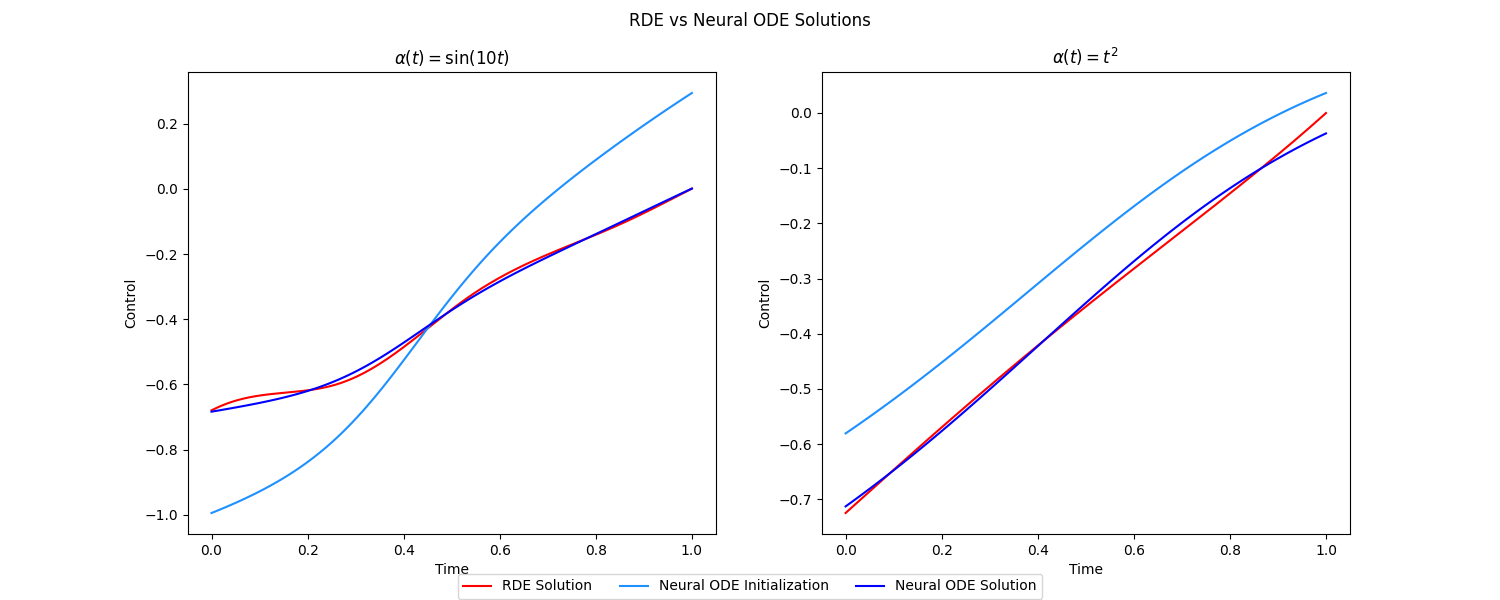
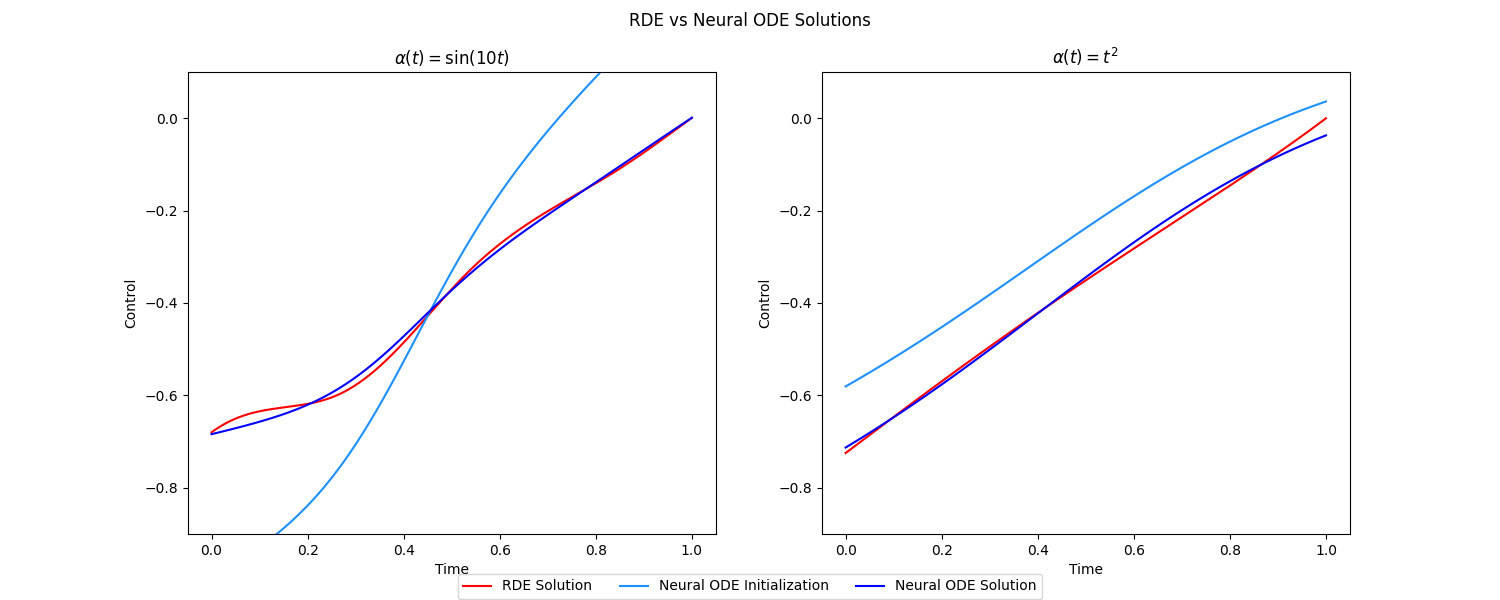
Refine figures

diff --git a/main.py b/main.py
@@ -17,27 +17,29 @@ t_rde_sin, u_rde_sin = rde_solver(L, alpha1)
 t_rde_sq, u_rde_sq = rde_solver(L, alpha2)
 
 # Solve the Neural ODE
-# t_neural_sin, u_neural_sin, u_neural_sin_init = neural_ode_solver(L, alpha1, num_iters=1000, rde_init=True, return_init=True)
-# t_neural_sq, u_neural_sq, u_neural_sq_init = neural_ode_solver(L, alpha2, num_iters=1000, rde_init=True, return_init=True)
-t_neural_sin, u_neural_sin = neural_ode_solver(L, alpha1, num_iters=1000, rde_init=False)
-t_neural_sq, u_neural_sq = neural_ode_solver(L, alpha2, num_iters=1000, rde_init=False)
+t_neural_sin, u_neural_sin, u_neural_sin_init = neural_ode_solver(L, alpha1, num_iters=1000, rde_init=True, return_init=True)
+t_neural_sq, u_neural_sq, u_neural_sq_init = neural_ode_solver(L, alpha2, num_iters=1000, rde_init=True, return_init=True)
+# t_neural_sin, u_neural_sin = neural_ode_solver(L, alpha1, num_iters=1000, rde_init=False)
+# t_neural_sq, u_neural_sq = neural_ode_solver(L, alpha2, num_iters=1000, rde_init=False)
 
 # Plot the control in two subplots
 fig, (ax1, ax2) = plt.subplots(1, 2, figsize=(15, 6))
 
 ax1.plot(t_rde_sin, u_rde_sin, color='r', label='RDE Solution')
-# ax1.plot(t_neural_sin, u_neural_sin_init, color='dodgerblue', label='Neural ODE Initialization')
+ax1.plot(t_neural_sin, u_neural_sin_init, color='dodgerblue', label='Neural ODE Initialization')
 ax1.plot(t_neural_sin, u_neural_sin, color='b', label='Neural ODE Solution')
 ax1.set_xlabel('Time')
 ax1.set_ylabel('Control')
 ax1.set_title(r'$\alpha(t) = \sin(10t)$')
+ax1.set_ylim(-0.9, 0.1)
 
 ax2.plot(t_rde_sq, u_rde_sq, color='r', label='RDE Solution')
-# ax2.plot(t_neural_sq, u_neural_sq_init, color='dodgerblue', label='Neural ODE Initialization')
+ax2.plot(t_neural_sq, u_neural_sq_init, color='dodgerblue', label='Neural ODE Initialization')
 ax2.plot(t_neural_sq, u_neural_sq, color='b', label='Neural ODE Solution')
 ax2.set_xlabel('Time')
 ax2.set_ylabel('Control')
 ax2.set_title(r'$\alpha(t) = t^2$')
+ax2.set_ylim(-0.9, 0.1)
 
 plt.suptitle('RDE vs Neural ODE Solutions')
 legend, labels = ax1.get_legend_handles_labels()
